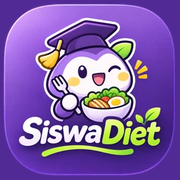
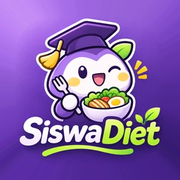
Add files via upload

diff --git a/index.html b/index.html
@@ -5,7 +5,7 @@
 <meta name="siswadiet-build" content="28">
 <meta name="apple-mobile-web-app-status-bar-style" content="black-translucent">
 <title>SiswaDiet</title>
-<link rel="manifest" href="manifest.json?v=logo2"><link rel="icon" href="icon-192.png?v=logo2" sizes="192x192" type="image/png"><link rel="apple-touch-icon" sizes="180x180" href="apple-touch-icon.png?v=logo2">
+<link rel="manifest" href="manifest.json?v=logo3"><link rel="icon" href="icon-192.png?v=logo3" sizes="192x192" type="image/png"><link rel="apple-touch-icon" sizes="180x180" href="apple-touch-icon.png?v=logo3">
 <meta name="apple-mobile-web-app-capable" content="yes"><meta name="mobile-web-app-capable" content="yes"><meta name="apple-mobile-web-app-title" content="SiswaDiet">
 <link href="https://fonts.googleapis.com/css2?family=Plus+Jakarta+Sans:wght@400;600;800&display=swap" rel="stylesheet">
 <style>
@@ -152,8 +152,8 @@ html:has(.auth-shell),body:has(.auth-shell){overflow:hidden;overscroll-behavior:
 .auth-shell #vw{min-height:100%;display:flex;align-items:flex-start;padding:calc(16px + env(safe-area-inset-top)) max(18px,env(safe-area-inset-right)) calc(14px + env(safe-area-inset-bottom)) max(18px,env(safe-area-inset-left))}
 .auth-view{width:min(100%,400px);margin:auto;display:grid;gap:clamp(12px,2.4dvh,24px);text-align:center}
 .auth-brand{display:grid;justify-items:center;gap:6px}
-.auth-logo-frame{display:grid;place-items:center;width:clamp(68px,11dvh,100px);aspect-ratio:1;border:1px solid var(--bd);border-radius:26%;background:var(--card);box-shadow:0 3px 8px rgba(41,21,59,.07);margin-bottom:8px}
-.auth-logo-frame img{display:block;width:90%;height:90%;object-fit:contain}
+.auth-logo-frame{display:block;width:clamp(68px,11dvh,100px);aspect-ratio:1;border-radius:23%;overflow:hidden;background:#522a96;box-shadow:0 3px 8px rgba(41,21,59,.12);margin-bottom:8px}
+.auth-logo-frame img{display:block;width:100%;height:100%;object-fit:cover}
 .auth-brand h1{font-size:clamp(24px,6.65vw,30px);letter-spacing:-.045em}
 .auth-brand p{color:var(--mut);font-size:13px}
 .auth-form.card{margin:0;padding:clamp(13px,4vw,22px);text-align:left;box-shadow:0 3px 10px rgba(41,21,59,.08);border-radius:24px;display:grid;gap:12px}
@@ -1018,7 +1018,7 @@ const vAuth=()=>{
  const up=AM==='up';
  return `<section class="auth-view" aria-labelledby="auth-title">
   <header class="auth-brand">
-   <div class="auth-logo-frame"><img src="${LOGO}" alt="SiswaDiet logo"></div>
+   <div class="auth-logo-frame"><img src="icon-512.png?v=logo3" width="512" height="512" alt="SiswaDiet logo"></div>
    <h1 id="auth-title">${up?'Create your account':'Welcome to SiswaDiet'}</h1>
    <p>${up?'Create an account to save your meal plan.':'Plan meals around your student budget.'}</p>
   </header>
